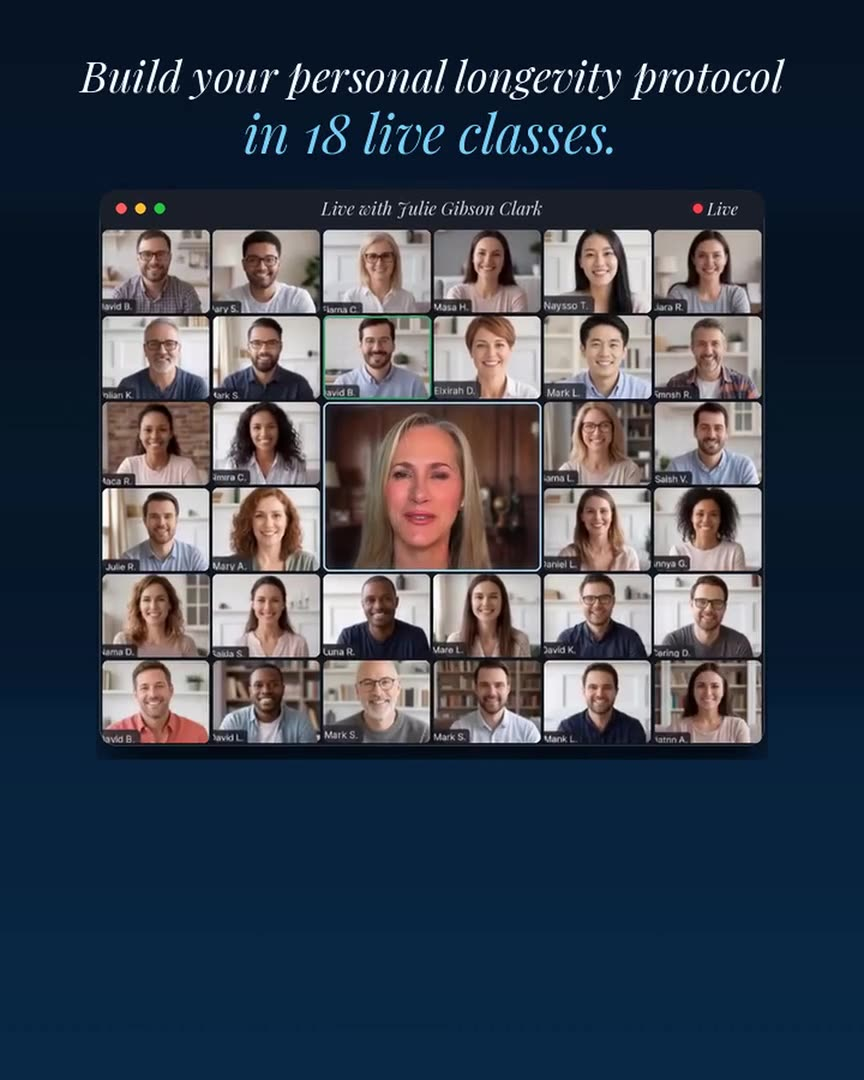
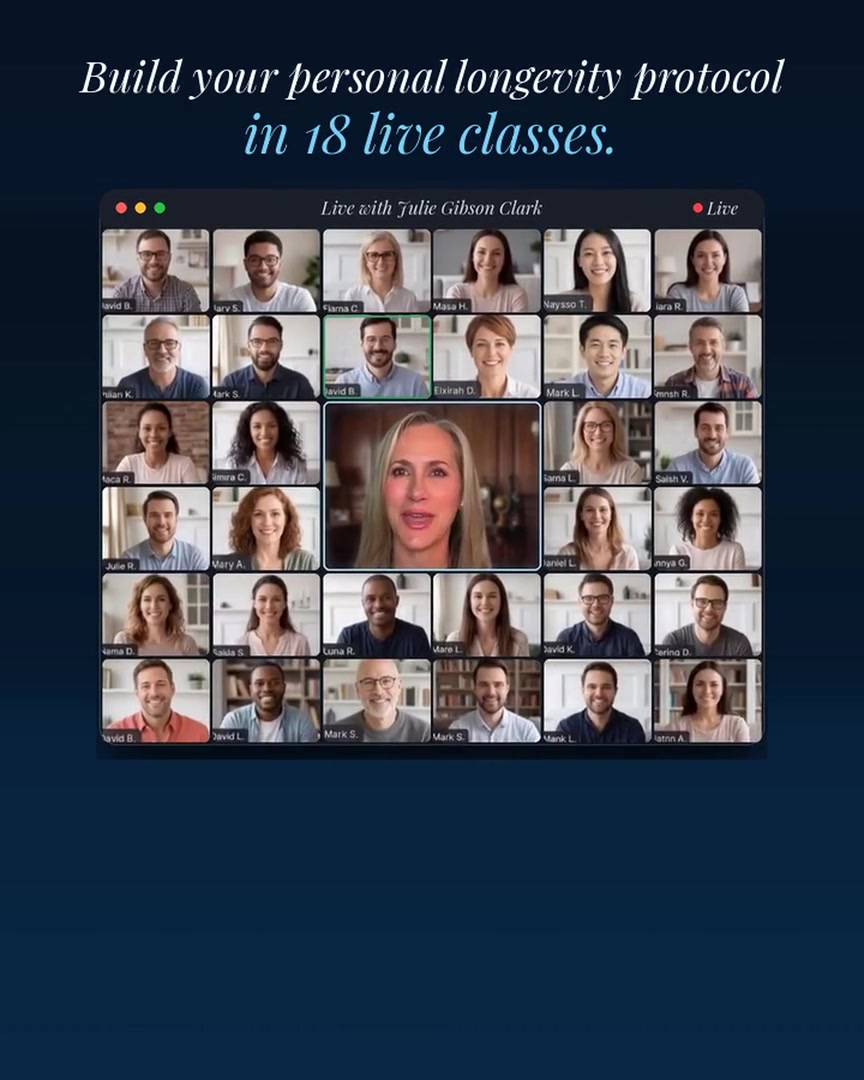
Nov Blueprint phone to Ad26 zoom-blue; MC grid starts full
Slide 3 opener uses Claude Ad26 9:16 blue Blueprint reel postered
on the headline frame. Slide 2 Zoom stage seeks and posters past
the tile build to the full attendee grid.

Changed region(s): [[0.125, 0.1833, 0.875, 0.7028], [0.125, 0.1833, 0.1875, 0.2139]]

diff --git a/index.html b/index.html
@@ -196,7 +196,7 @@ body:hover .nav{opacity:.85}
 <h2 style="font-size:40px">Learn to age slower with the second slowest aging woman on earth,<br>Julie Gibson Clark. Longevity Life Academy Founding Faculty.</h2>
 <div class="vip">90 min VIP session with live Q&amp;A.</div>
 </div>
-<div class="stagev" style="left:40px;top:300px;width:1240px;height:720px"><video data-src="r/ad26_45.mp4" poster="r/ad26_45.jpg" muted loop playsinline></video><button class="snd" style="position:absolute;right:20px;bottom:20px;z-index:4">Sound</button><div class="chip"><i>01</i>Live with Julie</div></div>
+<div class="stagev" style="left:40px;top:300px;width:1240px;height:720px"><video data-start="2" data-src="r/ad26_45.mp4" poster="r/ad26_45.jpg" muted loop playsinline></video><button class="snd" style="position:absolute;right:20px;bottom:20px;z-index:4">Sound</button><div class="chip"><i>01</i>Live with Julie</div></div>
 <div class="card c-teal" style="left:1320px;top:300px;width:540px;min-height:280px;padding-top:48px"><div class="n">PAID ORDERS</div><div class="t" style="font-size:64px">212</div><div class="s">16 Sep to 2 Nov.</div></div>
 <div class="card c-gold" style="left:1320px;top:620px;width:540px;min-height:280px;padding-top:48px"><div class="n">THE LIVE HOUR</div><div class="t" style="font-size:44px">60 min live + 30 min Q&amp;A</div><div class="s">VIP session with Julie on Zoom.</div></div>
 <div class="ph" style="left:960px;top:480px;width:300px;height:540px;z-index:6"><div class="scr"><div class="isl"></div><video data-start="5" data-src="ap/rv_cake.mp4" poster="ap/rv_cake.jpg" muted loop playsinline></video><button class="snd">Sound</button></div></div>
@@ -259,7 +259,7 @@ body:hover .nav{opacity:.85}
 <div class="vip">$79 month 1, Nov promo trial. Exclusive Masterclass VIP included, Nov 14th. $100 cash back towards next course.</div>
 </div>
 <div class="stagev" style="left:40px;top:290px;width:1080px;height:730px"><video data-start="8" data-src="v/bp_pagesdev.mp4" poster="v/bp_pagesdev.jpg" muted loop playsinline></video><button class="snd" style="position:absolute;right:20px;bottom:20px;z-index:4">Sound</button><div class="chip"><i>01</i>Pricing and offer</div></div>
-<div class="ph" style="left:1160px;top:290px;width:340px;height:730px"><div class="scr"><div class="isl"></div><video data-src="r/ad17_916.mp4" poster="r/ad17_916.jpg" muted loop playsinline></video><button class="snd">Sound</button><div class="chip"><i>02</i>Blueprint reel</div></div></div>
+<div class="ph" style="left:1160px;top:290px;width:340px;height:730px"><div class="scr"><div class="isl"></div><video data-start="2" data-src="r/ad26_916.mp4" poster="r/ad26_916.jpg" muted loop playsinline></video><button class="snd">Sound</button><div class="chip"><i>02</i>Blueprint reel</div></div></div>
 <div class="card c-blue" style="left:1540px;top:290px;width:340px;height:220px;padding-top:36px;box-sizing:border-box"><div class="n">MONTH 1</div><div class="t" style="font-size:52px">$79</div><div class="s">Nov promo trial.</div></div>
 <div class="card c-gold" style="left:1540px;top:535px;width:340px;height:220px;padding-top:36px;box-sizing:border-box"><div class="n">VIP</div><div class="t" style="font-size:44px">Nov 14</div><div class="s">Masterclass VIP included.</div></div>
 <div class="card c-teal" style="left:1540px;top:780px;width:340px;height:220px;padding-top:36px;box-sizing:border-box"><div class="n">CASH BACK</div><div class="t" style="font-size:48px">$100</div><div class="s">Cash back towards your next course.</div></div>
